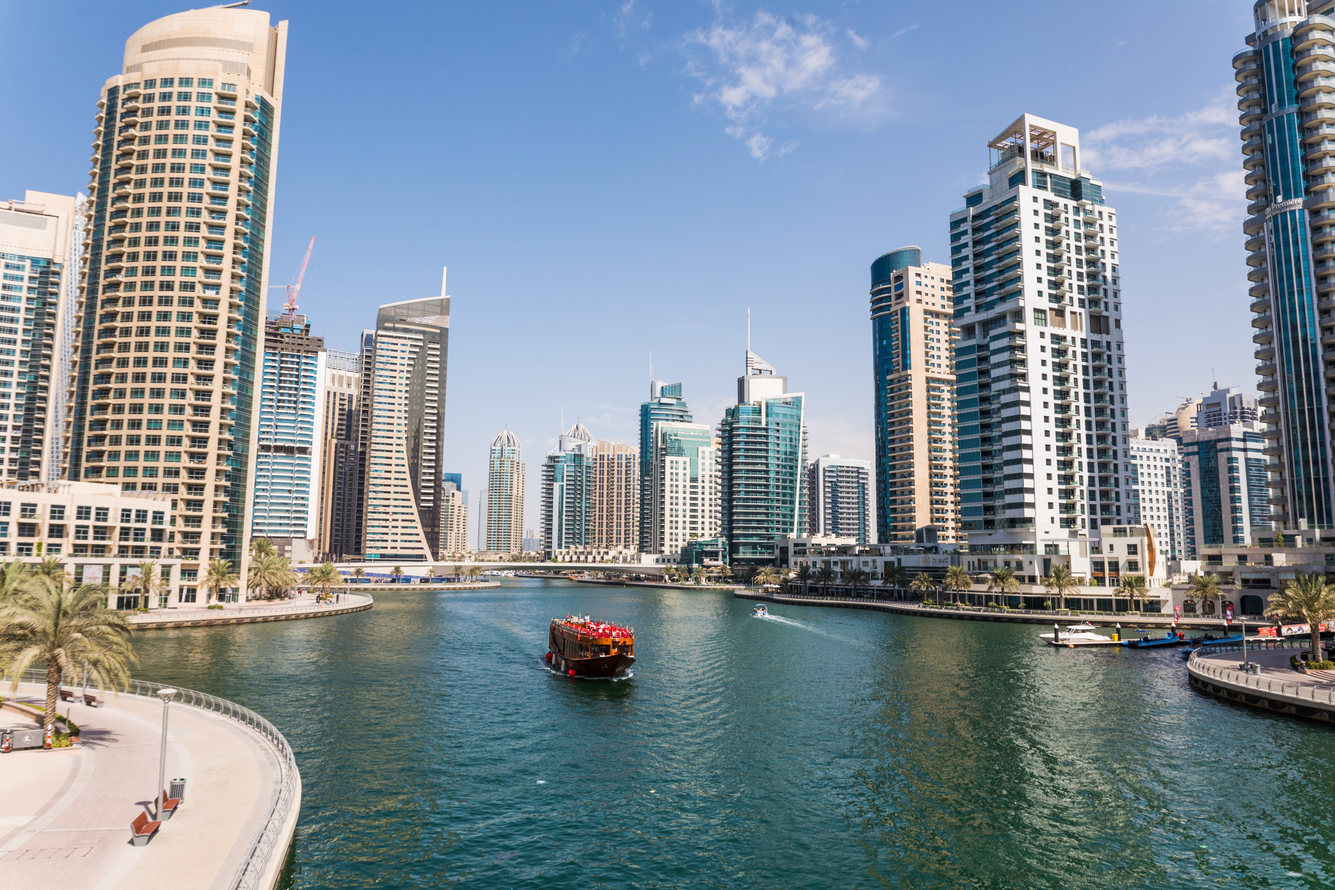
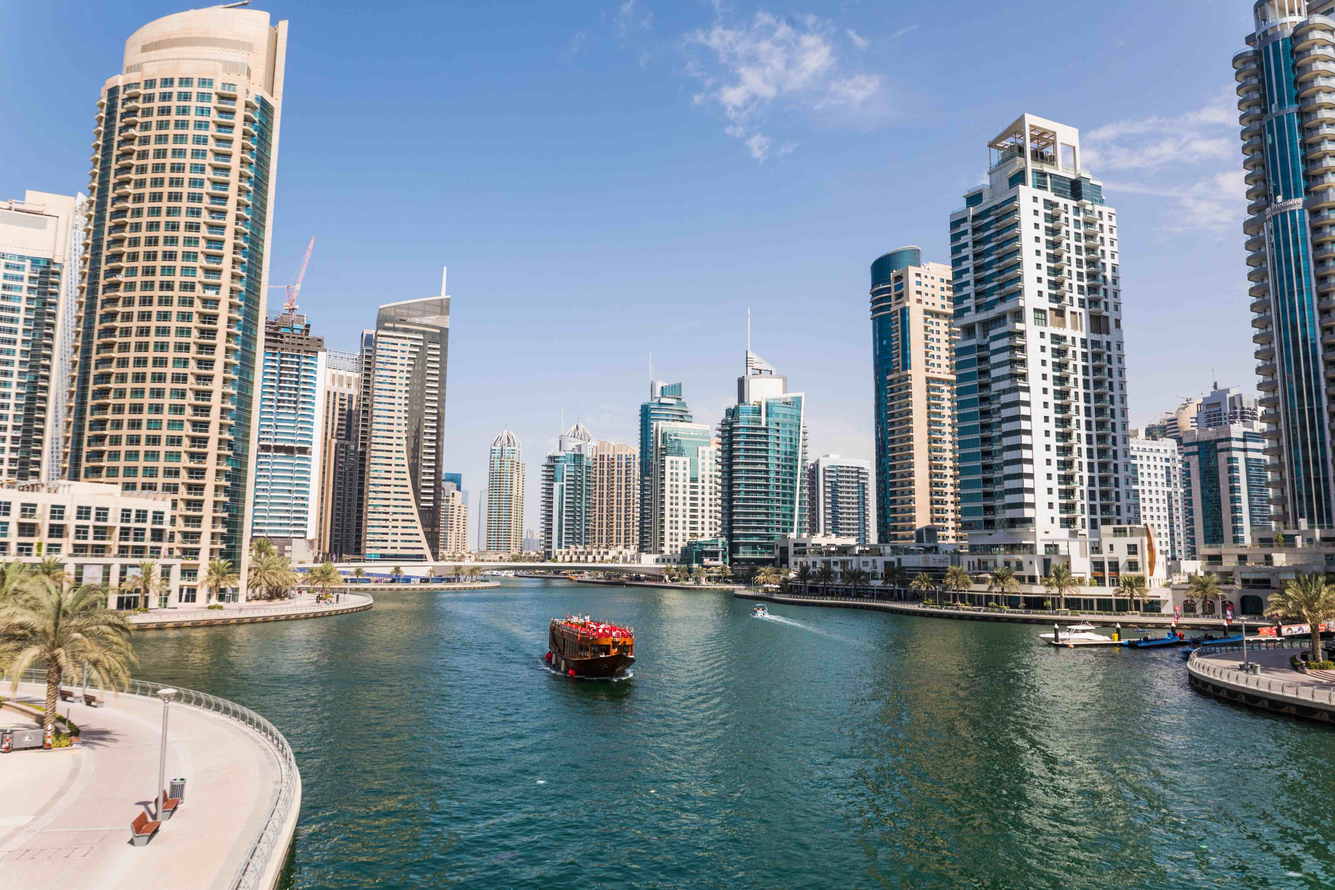
Added updates

Changed region(s): [[0.4356, 0.527, 0.4667, 0.62], [0.4356, 0.682, 0.4667, 0.744]]

diff --git a/src/data/destinations.ts b/src/data/destinations.ts
@@ -35,7 +35,7 @@ export const destinations: Destination[] = [
     airportDetail: '13 km from Kuta',
     travelTime: '16h 30m',
     travelFrom: 'from Toronto',
-    image: '/images/destinations/tequan-slider-04.jpg',
+    image: '/images/destinations/tequan-slider-04.webp',
   },
   {
     id: 'london',
@@ -54,7 +54,7 @@ export const destinations: Destination[] = [
     airportDetail: '23 km from the city center',
     travelTime: '7h 20m',
     travelFrom: 'from Toronto',
-    image: '/images/destinations/tequan-slider-02.jpg',
+    image: '/images/destinations/tequan-slider-02.webp',
   },
   {
     id: 'dubai',
@@ -73,6 +73,6 @@ export const destinations: Destination[] = [
     airportDetail: '5 km from Deira',
     travelTime: '12h 50m',
     travelFrom: 'from Toronto',
-    image: '/images/destinations/tequan-slider-03.jpg',
+    image: '/images/destinations/tequan-slider-03.webp',
   },
 ]
